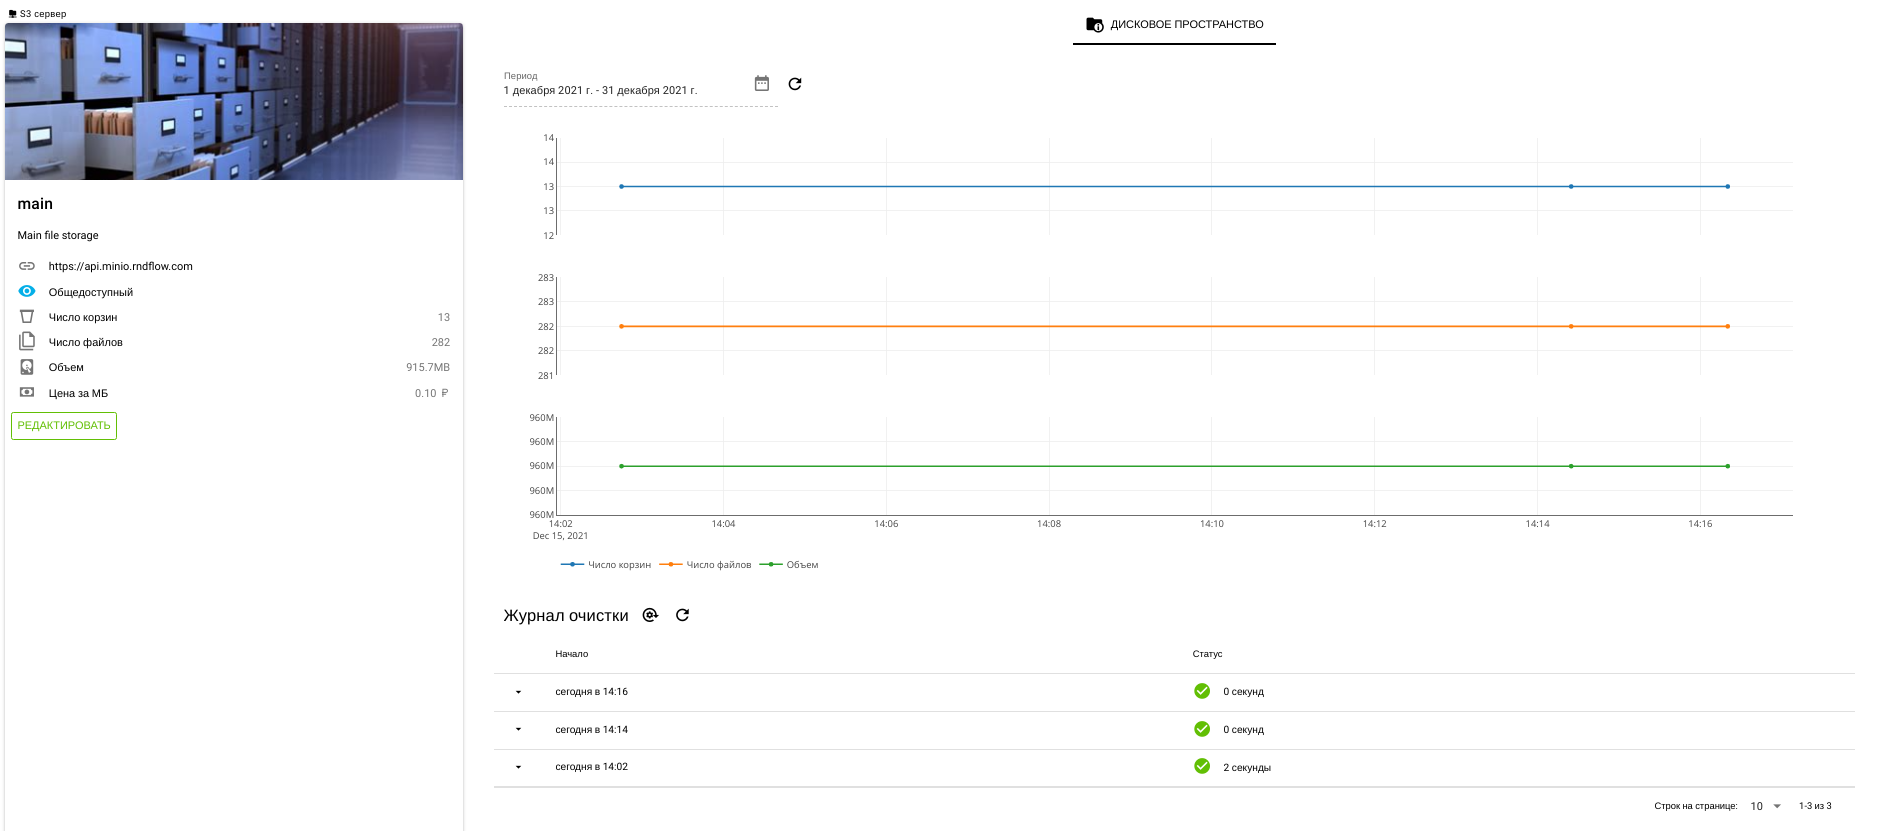
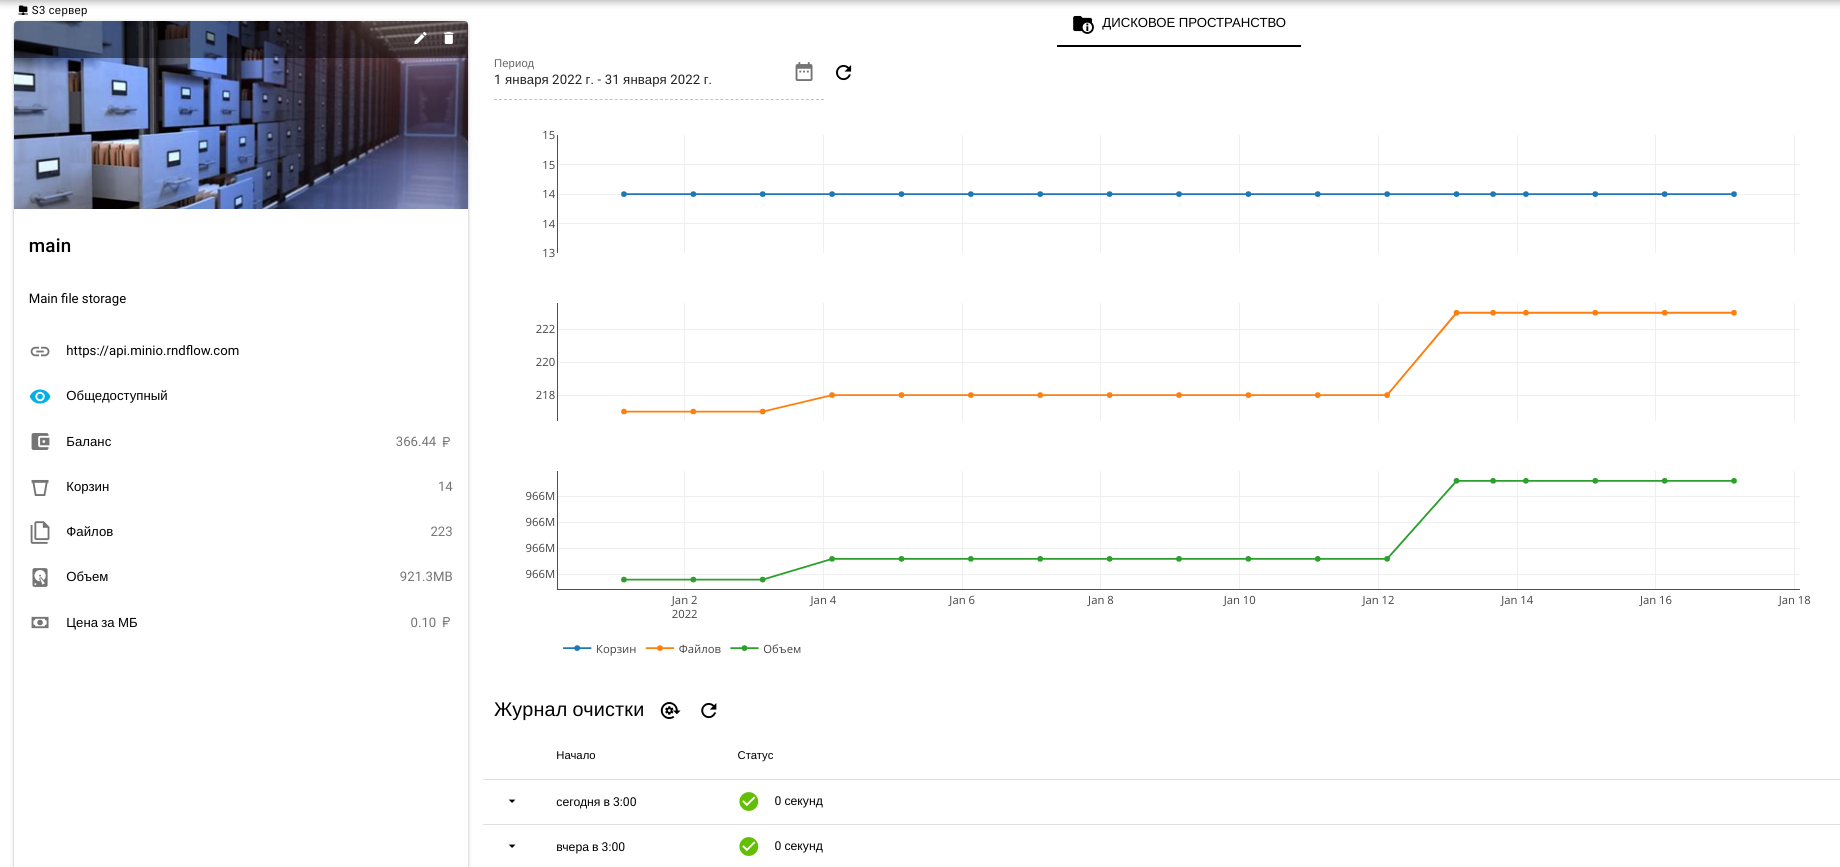
Add s3 balance info

diff --git a/src/desc/s3.md b/src/desc/s3.md
@@ -8,7 +8,7 @@
 
 Платформа позволяет производить подключение внешних хранилищ, которые используют для доступа указанный тип API. Например, можно использовать внешнее облачное хранилище на основе [Yandex Object Storage](https://cloud.yandex.com/en/services/storage), [VK Cloud Storage](https://mcs.mail.ru/storage/) или [Amazon S3](https://aws.amazon.com/s3/). Таким образом, можно подключать неограниченное количество объектных хранилищ как локальных так и внешних, и использовать их для хранения данных различных проектов. Если разные проекты используют один и тот же экземпляр объектного хранилища, то с целью изоляции они размещаются в различных бакетах, которые обеспечивают как логическое, так и физическое раздельное размещение данных.
 
-![S3 manage](/images/common/admin_s3_disk.png)
+![S3 info](/images/common/admin_s3_disk.png)
 
 Структура:
 
@@ -22,6 +22,10 @@
   - <span class='iconify-inline' data-icon='mdi:cash'></span> Цена за МБ - стоимость хранения 1 МБ
 
   Также для владельцев доступна информация:
+
+  - <span class='iconify-inline' data-icon='mdi:wallet'></span> Баланс - баланс [счета][1]
+
+    При нажатии происходит открытие окна [баланса][#баланс] хранилища
 
   - <span class='iconify-inline' data-icon='mdi:bucket-outline'></span> Число корзин - общее количество корзин
   - <span class='iconify-inline' data-icon='mdi:file-multiple-outline'></span> Число файлов - общее количество файлов
@@ -47,3 +51,36 @@
     - <span class='iconify-inline' data-icon='mdi:cog-clockwise'></span> Кнопка запуска очистки
     - <span class='iconify-inline' data-icon='mdi:refresh'></span> Кнопка обновления таблицы истории очистки
     - Таблица истории очистки
+
+## Баланс
+
+Окно баланса хранилища отображает баланс [счета][1] и список [транзакций][2] по вводу и выводу средств на счет.
+
+![S3 balance](/images/common/admin_s3_balance.png)
+
+Структура:
+
+- Панель описания
+
+  - Изображение хранилища
+  - Имя-ссылка хранилища
+  - <span class='iconify-inline' data-icon='mdi:wallet'></span> Баланс - баланс счета
+  - Кнопка "ВЫВЕСТИ" - кнопка вывода средств на счет владельца
+
+- Панель транзакций
+  - Панель инструментов
+    - <span class='iconify-inline' data-icon='mdi:calendar-range'></span> Период
+    - <span class='iconify-inline' data-icon='mdi:refresh'></span> Кнопка обновления
+  - Таблица транзакций
+    - Создано - дата осуществления транзакции
+    - Назначение - тип транзакции
+    - Контрагент - контрагент транзакции
+    - Сумма - сумма транзакции
+  - Панель навигации
+
+После нажатия на кнопку **ВЫВЕСТИ** можно осуществить вывод средств на счет владельца хранилища.
+
+![S3 balance out](/images/common/admin_s3_balance_out.png)
+
+[1]: /docs/desc/finance.md#cчета
+[2]: /docs/desc/finance.md#транзакции

diff --git a/src/admin/README.md b/src/admin/README.md
@@ -62,6 +62,7 @@
   - Назначение - тип транзакции
   - Контрагент - контрагент транзакции
   - Сумма - сумма транзакции
+  - Панель навигации
 
 ## S3 серверы
 
